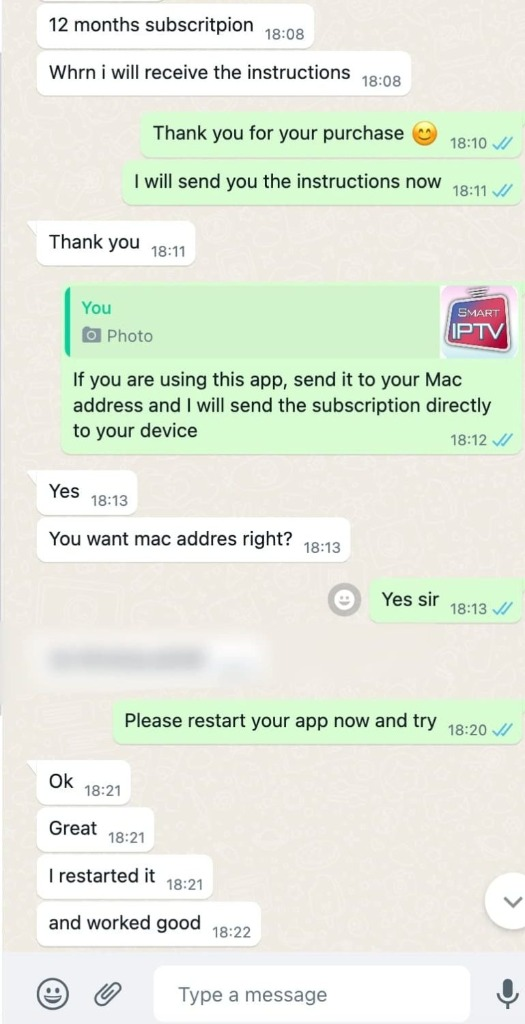
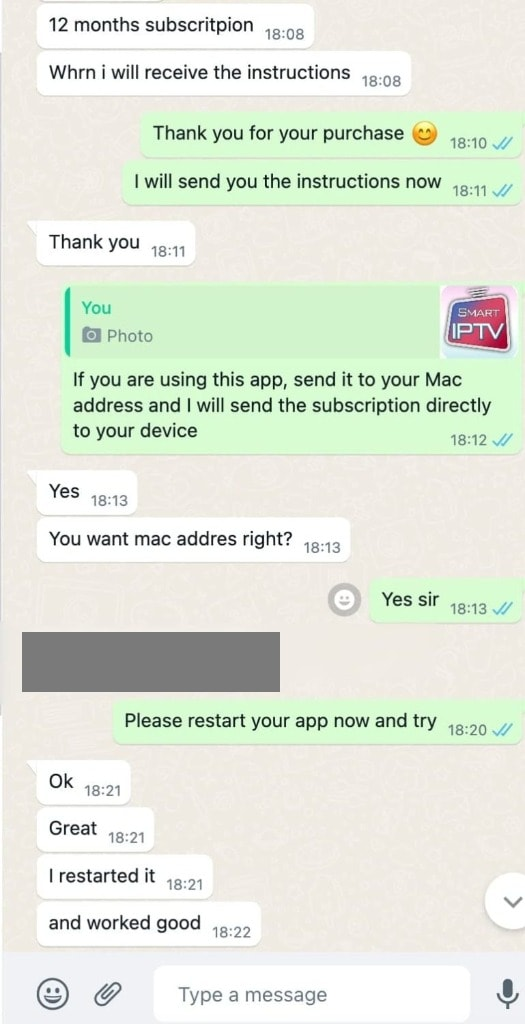
Privacy redaction, remove install-iptv.com screenshots, owner-confirmed facts
- Customer support screenshots 1-5: exposed username, server domain,
  credentials, M3U link, MAC address and URL covered with solid boxes;
  the support section again says "Personal details are hidden."
- TiviMate and IPTV Smarters: the 9 screenshots supplied with the
  install-iptv.com text are removed from the pages, the image sitemap and
  public/images (TODO comments mark where the owner's own go). Article
  schema images now use owner-owned images (playlist-epg-settings.jpg,
  the redrawn M3U diagram).
- Owner-confirmed 2026-10-24: PPV events, catch-up TV and "USA, UK & More"
  recorded in PRODUCT_TRUTHS; X, Instagram and Facebook accounts confirmed,
  Facebook link corrected to facebook.com/tryiptvofficial.
- image-blur.generated.json regenerated by the build.

Changed region(s): [[0.0305, 0.5938, 0.5486, 0.6875]]

diff --git a/src/app/players/tivimate/page.tsx b/src/app/players/tivimate/page.tsx
@@ -29,8 +29,8 @@ const articleSchema = generateArticleSchema({
   description,
   dateModified: "2026-10-20",
   url: `${SITE_URL}${canonical}`,
-  // Real app screenshot (1280x718) so image results and AI answers show the TiviMate login screen.
-  image: `${SITE_URL}/images/tivimate/tivimate-xtream-codes-login.webp`,
+  // Owner's own capture (1280x720); the install-iptv.com screenshots were removed 2026-10-24.
+  image: `${SITE_URL}/images/tivimate/playlist-epg-settings.jpg`,
 });
 
 const breadcrumbSchema = generateBreadcrumbSchema([
@@ -92,14 +92,7 @@ export default function TivimatePage() {
                 <li>Program recording</li>
               </ul>
               <p className={textClass}>Some of these, such as recording and multiple playlists, need TiviMate Premium (see below).</p>
-              <GuideScreenshot
-                src="/images/tivimate/tivimate-player-menu-recording-multiview.webp"
-                alt="TiviMate playback menu over a live channel: channels, search, recordings, multi-view, audio and subtitles"
-                caption="TiviMate's playback menu: channel list, search, recordings, multi-view, audio, audio delay and subtitles."
-                width={1280}
-                height={720}
-                sizes="(max-width: 768px) calc(100vw - 2rem), 768px"
-              />
+              {/* TODO(owner): your own screenshot here (tivimate-player-menu-recording-multiview.webp was removed: install-iptv.com). */}
             </section>
 
             <section>
@@ -143,23 +136,8 @@ export default function TivimatePage() {
                 <li><strong className="text-foreground">Enter your connection details.</strong> Type the Xtream Codes server URL, username and password (or the M3U URL) from your IPTV provider and continue.</li>
                 <li><strong className="text-foreground">Name your playlist.</strong> TiviMate fills in the server domain as the playlist name; change it to anything you like, then finish setup.</li>
               </ol>
-              <GuideScreenshot
-                src="/images/tivimate/tivimate-add-playlist-options.webp"
-                alt="TiviMate Add Playlist screen with Enter URL, Paste from clipboard, Select local playlist and Xtream Codes login options"
-                caption="Step 1: choose how to add your playlist: M3U URL, local file, or Xtream Codes login."
-                width={1280}
-                height={720}
-                sizes="(max-width: 768px) calc(100vw - 2rem), 768px"
-              />
-              <GuideScreenshot
-                src="/images/tivimate/tivimate-playlist-name.webp"
-                alt="TiviMate Playlist is processed screen with the playlist name field filled in from the server address"
-                caption="Step 3: TiviMate suggests the server domain as the playlist name; edit it, then select Done."
-                note="Server details replaced with placeholders."
-                width={1280}
-                height={647}
-                sizes="(max-width: 768px) calc(100vw - 2rem), 768px"
-              />
+              {/* TODO(owner): your own screenshot here (tivimate-add-playlist-options.webp was removed: install-iptv.com). */}
+              {/* TODO(owner): your own screenshot here (tivimate-playlist-name.webp was removed: install-iptv.com). */}
               <p className={textClass}>
                 Once added, you can browse the channel list, open the full program guide, switch audio tracks, turn on subtitles, and manage your channels. The sections below cover each login method in detail.
               </p>
@@ -176,15 +154,7 @@ export default function TivimatePage() {
                 <li>Enter the provider-issued username and password exactly, checking for spaces and mistyped characters.</li>
                 <li>Continue, name the playlist, save it, and allow the channel list to load.</li>
               </ol>
-              <GuideScreenshot
-                src="/images/tivimate/tivimate-xtream-codes-login.webp"
-                alt="TiviMate Xtream Codes login screen with server address, username and password fields and the Include VOD option"
-                caption="Step 2: enter the server address, username and password from your IPTV provider. Keep Include VOD ticked to load movies and series."
-                note="Example values are placeholders, not real account details."
-                width={1280}
-                height={718}
-                sizes="(max-width: 768px) calc(100vw - 2rem), 768px"
-              />
+              {/* TODO(owner): your own screenshot here (tivimate-xtream-codes-login.webp was removed: install-iptv.com). */}
               <p className={textClass}>A provider website password may differ from the IPTV password. If the details work in one player but fail here, compare the exact server address and port used in both apps.</p>
             </section>
 
@@ -221,14 +191,7 @@ export default function TivimatePage() {
               <p className={textClass}>
                 Check the URL, source assignment, update status, and channel IDs before changing playback settings. Channels can work while EPG data fails independently. See the <Link href="/help/epg-not-working" className={linkClass}>EPG troubleshooting guide</Link> for missing or stale schedules.
               </p>
-              <GuideScreenshot
-                src="/images/tivimate/tivimate-epg-tv-guide-grid.webp"
-                alt="TiviMate TV guide (EPG) grid with channel groups on the left, a live preview, and programme time slots for each channel"
-                caption="TiviMate's EPG grid: channel groups, live preview and programme schedule. Channels without guide data show “No information”."
-                width={1280}
-                height={715}
-                sizes="(max-width: 768px) calc(100vw - 2rem), 768px"
-              />
+              {/* TODO(owner): your own screenshot here (tivimate-epg-tv-guide-grid.webp was removed: install-iptv.com). */}
             </section>
 
             <section>
@@ -264,14 +227,7 @@ export default function TivimatePage() {
               <p className={textClass}>
                 You normally do not install channels individually in TiviMate. Channels arrive through the M3U, Xtream Codes, or Stalker Portal playlist supplied by your IPTV provider. Refresh the playlist when the provider changes its lineup; if a channel is still absent, ask the provider whether it belongs to your account. TiviMate can help you navigate the channels it receives with favorites and playlist organization.
               </p>
-              <GuideScreenshot
-                src="/images/tivimate/tivimate-channel-list-programme-schedule.webp"
-                alt="TiviMate channel list grouped by country with the selected channel's programme schedule and episode details"
-                caption="Browsing a channel group in TiviMate, with the selected channel's schedule and programme details."
-                width={1280}
-                height={723}
-                sizes="(max-width: 768px) calc(100vw - 2rem), 768px"
-              />
+              {/* TODO(owner): your own screenshot here (tivimate-channel-list-programme-schedule.webp was removed: install-iptv.com). */}
             </section>
 
             <section>

diff --git a/src/app/players/iptv-smarters/page.tsx b/src/app/players/iptv-smarters/page.tsx
@@ -30,8 +30,8 @@ const articleSchema = generateArticleSchema({
   description,
   dateModified: "2026-10-20",
   url: `${SITE_URL}${canonical}`,
-  // Real app screenshot so image results and AI answers show the Smarters login form.
-  image: `${SITE_URL}/images/iptv-smarters/iptv-smarters-xtream-codes-login-form.webp`,
+  // Original M3U diagram; the install-iptv.com screenshots were removed 2026-10-24.
+  image: `${SITE_URL}/images/iptv-smarters/m3u-link-server-url-username-password.webp`,
 });
 
 const breadcrumbSchema = generateBreadcrumbSchema([
@@ -106,31 +106,9 @@ export default function IptvSmartersPage() {
                 <li><strong className="text-foreground">Enter your connection details.</strong> In the first field, type any name for your playlist. Then enter the username, password, and server URL from your IPTV provider, and press <strong className="text-foreground">Add User</strong>.</li>
                 <li><strong className="text-foreground">Start watching.</strong> Once you are logged in, open <strong className="text-foreground">Live TV</strong>, <strong className="text-foreground">Movies</strong> (VOD), or <strong className="text-foreground">Series</strong> to browse and play your content.</li>
               </ol>
-              <GuideScreenshot
-                src="/images/iptv-smarters/iptv-smarters-login-with-xtream-codes-api.webp"
-                alt="IPTV Smarters Pro start screen with playlist, device-data, Xtream Codes API login and single-stream options"
-                caption="Step 1: choose Login with Xtream Codes API (or Load Your Playlist Or File/URL for an M3U link)."
-                width={1280}
-                height={692}
-                sizes="(max-width: 768px) calc(100vw - 2rem), 768px"
-              />
-              <GuideScreenshot
-                src="/images/iptv-smarters/iptv-smarters-xtream-codes-login-form.webp"
-                alt="IPTV Smarters Pro login form with playlist name, username, password and server URL fields"
-                caption="Step 2: enter any playlist name, then your username, password and server URL, and press Add User."
-                note="Example values are placeholders, not real account details."
-                width={1280}
-                height={691}
-                sizes="(max-width: 768px) calc(100vw - 2rem), 768px"
-              />
-              <GuideScreenshot
-                src="/images/iptv-smarters/iptv-smarters-home-live-tv-movies-series.webp"
-                alt="IPTV Smarters Pro home screen with Live TV, Movies and Series tiles plus Install EPG, Multi-Screen and Catch Up buttons"
-                caption="Step 3: after login, open Live TV, Movies or Series. Install EPG loads the TV guide."
-                width={1280}
-                height={720}
-                sizes="(max-width: 768px) calc(100vw - 2rem), 768px"
-              />
+              {/* TODO(owner): your own screenshot here (iptv-smarters-login-with-xtream-codes-api.webp was removed: install-iptv.com). */}
+              {/* TODO(owner): your own screenshot here (iptv-smarters-xtream-codes-login-form.webp was removed: install-iptv.com). */}
+              {/* TODO(owner): your own screenshot here (iptv-smarters-home-live-tv-movies-series.webp was removed: install-iptv.com). */}
               <p className={textClass}>The detailed Xtream Codes and M3U sections below cover each field and common login mistakes.</p>
             </section>
 

diff --git a/src/lib/site-data/page-images.ts b/src/lib/site-data/page-images.ts
@@ -13,19 +13,15 @@ export const PAGE_IMAGES: Record<string, string[]> = {
     '/images/firestick/about-device-name.jpeg',
     '/images/firestick/install-unknown-apps-downloader-on.jpeg',
   ],
+  // TODO(owner): add your own TiviMate screenshots here. The six supplied with the install-iptv.com text
+  // (tivimate-*.webp) were removed from the image sitemap on 2026-10-24 (copyright).
   '/players/tivimate': [
-    '/images/tivimate/tivimate-player-menu-recording-multiview.webp',
-    '/images/tivimate/tivimate-add-playlist-options.webp',
-    '/images/tivimate/tivimate-playlist-name.webp',
-    '/images/tivimate/tivimate-xtream-codes-login.webp',
-    '/images/tivimate/tivimate-epg-tv-guide-grid.webp',
     '/images/tivimate/playlist-epg-settings.jpg',
-    '/images/tivimate/tivimate-channel-list-programme-schedule.webp',
   ],
+  // TODO(owner): add your own IPTV Smarters screenshots here. The three supplied with the install-iptv.com
+  // text (iptv-smarters-*.webp) were removed from the image sitemap on 2026-10-24 (copyright); the M3U
+  // diagram stays because it was redrawn as an original.
   '/players/iptv-smarters': [
-    '/images/iptv-smarters/iptv-smarters-login-with-xtream-codes-api.webp',
-    '/images/iptv-smarters/iptv-smarters-xtream-codes-login-form.webp',
-    '/images/iptv-smarters/iptv-smarters-home-live-tv-movies-series.webp',
     '/images/iptv-smarters/m3u-link-server-url-username-password.webp',
   ],
   // Press kit downloads.

diff --git a/src/components/sections/CustomerFeedback.tsx b/src/components/sections/CustomerFeedback.tsx
@@ -56,7 +56,7 @@ export function CustomerFeedback() {
         <SectionHeader
           align="left"
           title="How Does TryIPTV Support Work?"
-          subtitle={`TryIPTV support works on WhatsApp and by email at ${COMPANY.support.email}${COMPANY.support.hours ? `, ${COMPANY.support.hours}` : ""}.${COMPANY.support.responseTime ? ` Response time: ${COMPANY.support.responseTime.charAt(0).toLowerCase()}${COMPANY.support.responseTime.slice(1)}.` : ""} It covers setup, billing and playback questions. The screenshots below are example support conversations.`}
+          subtitle={`TryIPTV support works on WhatsApp and by email at ${COMPANY.support.email}${COMPANY.support.hours ? `, ${COMPANY.support.hours}` : ""}.${COMPANY.support.responseTime ? ` Response time: ${COMPANY.support.responseTime.charAt(0).toLowerCase()}${COMPANY.support.responseTime.slice(1)}.` : ""} It covers setup, billing and playback questions. The screenshots below are example support conversations. Personal details are hidden.`}
           eyebrow="Customer Support"
         />
 

diff --git a/src/lib/site-config.ts b/src/lib/site-config.ts
@@ -21,6 +21,13 @@ export const PRODUCT_TRUTHS = {
   /** Owner-confirmed 2026-10-21: support runs 9:00 AM–10:00 PM ET daily; requests outside those hours are queued until support reopens. */
   activationHours: "during support hours (9:00 AM–10:00 PM ET); requests sent outside those hours are answered when support reopens",
   billing: "Prepaid plans, no automatic renewal",
+  /**
+   * Owner-confirmed 2026-10-24: PPV events, catch-up TV and the USA/UK market are true claims.
+   * Shown on the homepage hero and the plan cards (HomePricing.tsx, pricing/page.tsx); do not flag or remove them.
+   */
+  ppvEvents: "Pay-Per-View (PPV) events included",
+  catchUpTv: "Catch-up TV with the Smart EPG (TV guide)",
+  markets: "USA, UK and more",
   /** Mirrors /refund-policy (owner-supplied 2026-10-20). Not an unconditional money-back guarantee. */
   refund: {
     /** No fixed refund window: refunds only when a working subscription can't be provided. */

diff --git a/src/lib/site-data/socials.ts b/src/lib/site-data/socials.ts
@@ -1,7 +1,8 @@
 export const socialLinks = {
   x: "https://x.com/tryiptv",
   instagram: "https://www.instagram.com/tryiptvofficial",
-  facebook: "https://www.facebook.com/tryiptv/",
+  // Owner-confirmed 2026-10-24: X, Instagram and Facebook below are the owner's accounts.
+  facebook: "https://www.facebook.com/tryiptvofficial",
   whatsapp: "https://wa.me/212694833293",
 } as const;
 

diff --git a/seo/eeat-confirm.md b/seo/eeat-confirm.md
@@ -82,7 +82,7 @@ Answer each question in `src/lib/site-data/company.ts` or `src/lib/site-data/aut
 
 ## Off-site, highest impact (no code)
 39. Do you have a **Trustpilot** (or BBB) profile? If yes, which URL? It can be added to `sameAs` once it has genuine reviews. Never buy or incentivise reviews without disclosure.
-40. Are the social profiles in `sameAs` (x.com/tryiptv, instagram.com/tryiptvofficial, facebook.com/tryiptv) active and owned by you?
+40. ✅ **Answered 2026-10-24 (owner-confirmed):** x.com/tryiptv, instagram.com/tryiptvofficial and facebook.com/tryiptvofficial are the owner's accounts (the old facebook.com/tryiptv link was replaced). → `socials.ts`, `sameAs`
 
 ## Brand entity (added on the `brand` branch)
 41. ✅ **Answered 2026-10-21:** press@tryiptv.com; media contact Simo Alaoui, Founder / Operations. Shown on /press and as a `press` ContactPoint in the Organization schema. → `support.pressEmail`, `support.mediaContact`
@@ -114,8 +114,8 @@ Answer each question in `src/lib/site-data/company.ts` or `src/lib/site-data/aut
 The supplied text came from iptvv.ca and described that company's product. Prices (CAD $19/$29/$49/$79, one device), payment (Interac e-Transfer), delivery (email in 1–2 hours) and trial checkout (add-to-cart, login by email) were replaced with TryIPTV's facts: USD $16/$39/$60/$90, 2 connections, crypto/PayPal/Stripe, trial and login on WhatsApp in 5–15 minutes. The Canada-only items (Canadian channels, ISED link) were dropped.
 57. **"Full access, nothing locked":** does the trial open the complete channel list and on-demand library, at the same quality as paid plans? And how many connections does a trial get? The page currently says "connection limit confirmed when your login is issued". If the trial is truly identical, the H1 can go back to "24 Hours of Full Access" and the FAQ can say so.
 58. **"24/7 support" and "99.9% server uptime":** both were left off. 24/7 needs the real support hours (question 9); a 99.9% figure needs monitoring data (question 35).
-59. **Catch-up TV:** the supplied text listed "Smart EPG and catch-up". Is catch-up (replay) available on TryIPTV? Until confirmed the page only mentions the TV guide.
-60. **Target market:** the supplied text was written for Canada. Is TryIPTV aimed at a particular country? The site currently prices in USD and speaks to an international audience.
+59. ✅ **Answered 2026-10-24 (owner-confirmed):** catch-up TV is available, and PPV events are included. → `PRODUCT_TRUTHS.catchUpTv`, `ppvEvents`
+60. ✅ **Answered 2026-10-24 (owner-confirmed):** the service is for the USA, UK and more ("USA, UK & More" in the homepage H1). Prices stay in USD. → `PRODUCT_TRUTHS.markets`
 
 ## Pricing page (owner-supplied text, added 2026-10-20)
 Same source as the trial page. Replaced with TryIPTV facts: CAD prices and the 1–4 device tabs (TryIPTV has one price list with 2 connections), Interac e-Transfer and the order-number memo (now a crypto payment note), email login in 1–2 hours (now WhatsApp, 5–15 minutes). Left out: "High Performance Server", 99.9% uptime, 24/7 Canadian support, "taxes calculated by province".
